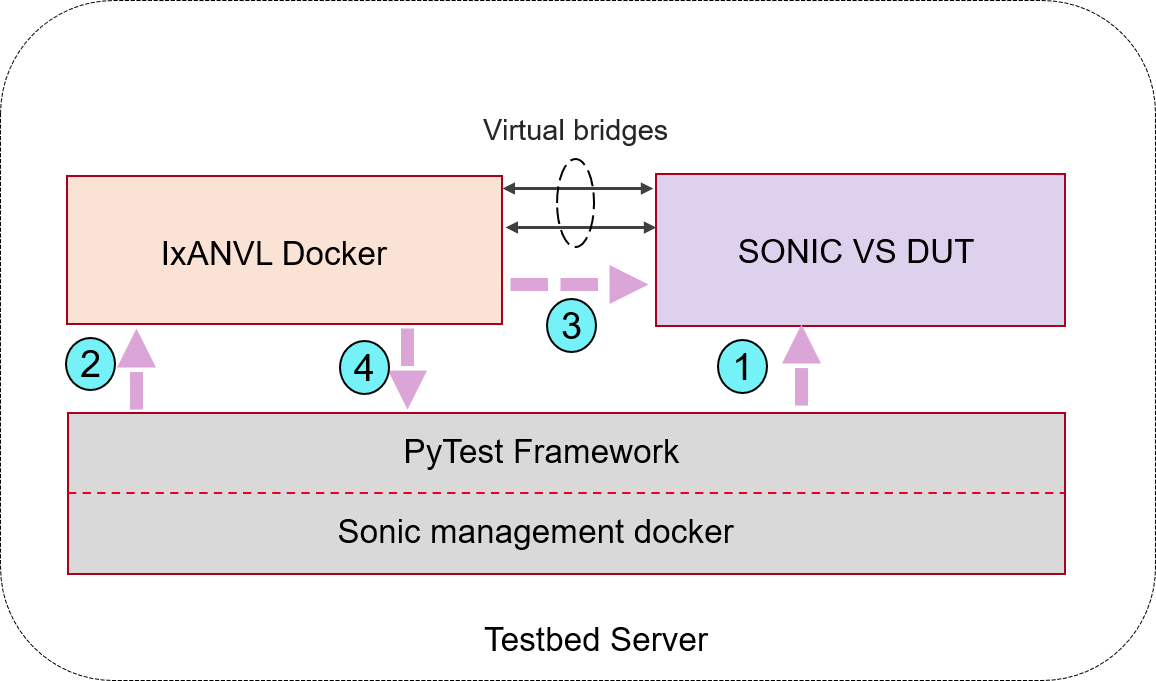
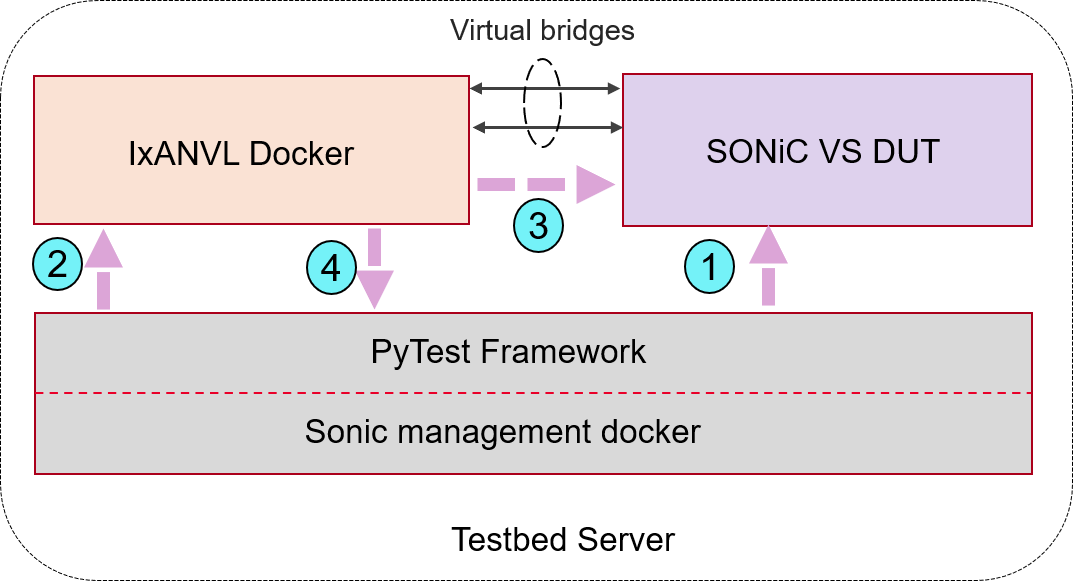
Fixed SONiC typo

diff --git a/docs/testplan/BGP-Conformance-IxANVL.md b/docs/testplan/BGP-Conformance-IxANVL.md
@@ -38,8 +38,8 @@ IxANVL test bed deployment (PR TBD)
 ![Keysight Topology ](Img/anvl-testbed.png)
 
 ## Setup configuration
-1. Testbed Configuration script brings up the IxANVL docker and the SONIC VS DUT
-2. Testbed Configuration script also brings up the connections between IxANVL docker and the SONIC VS DUT for test channel
+1. Testbed Configuration script brings up the IxANVL docker and the SONiC VS DUT
+2. Testbed Configuration script also brings up the connections between IxANVL docker and the SONiC VS DUT for test channel
 
 ## Test Methodology
 Here are the highlevel steps:
